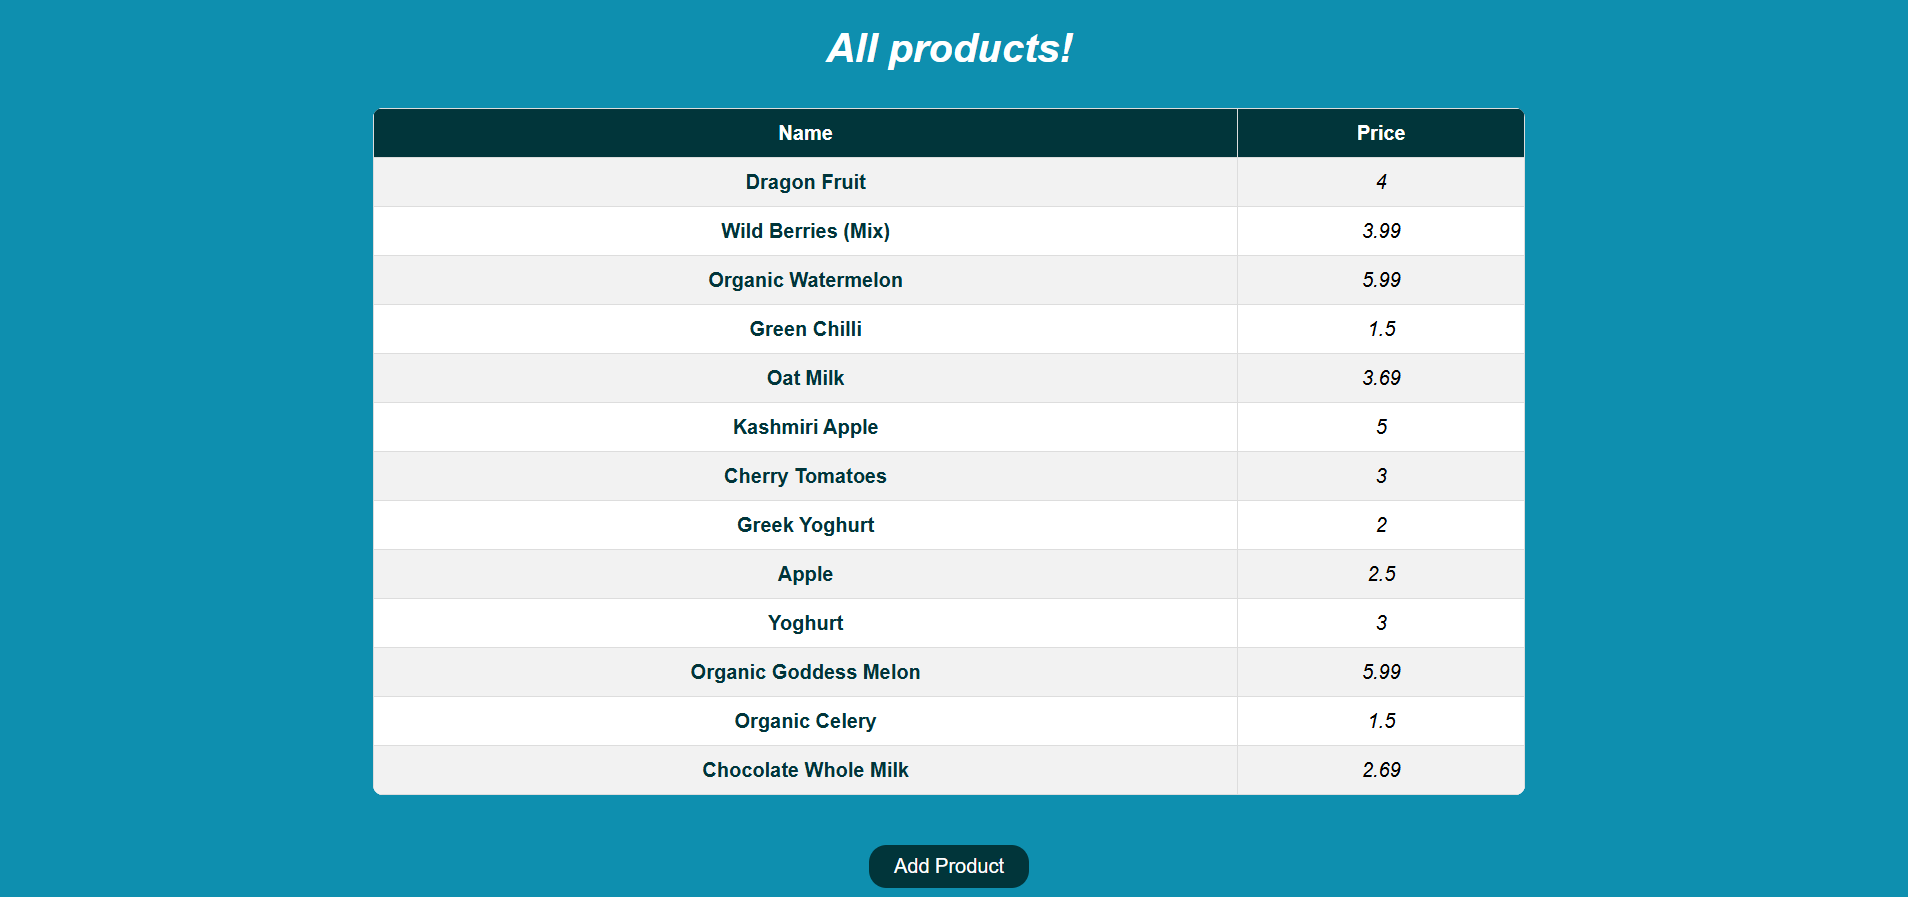
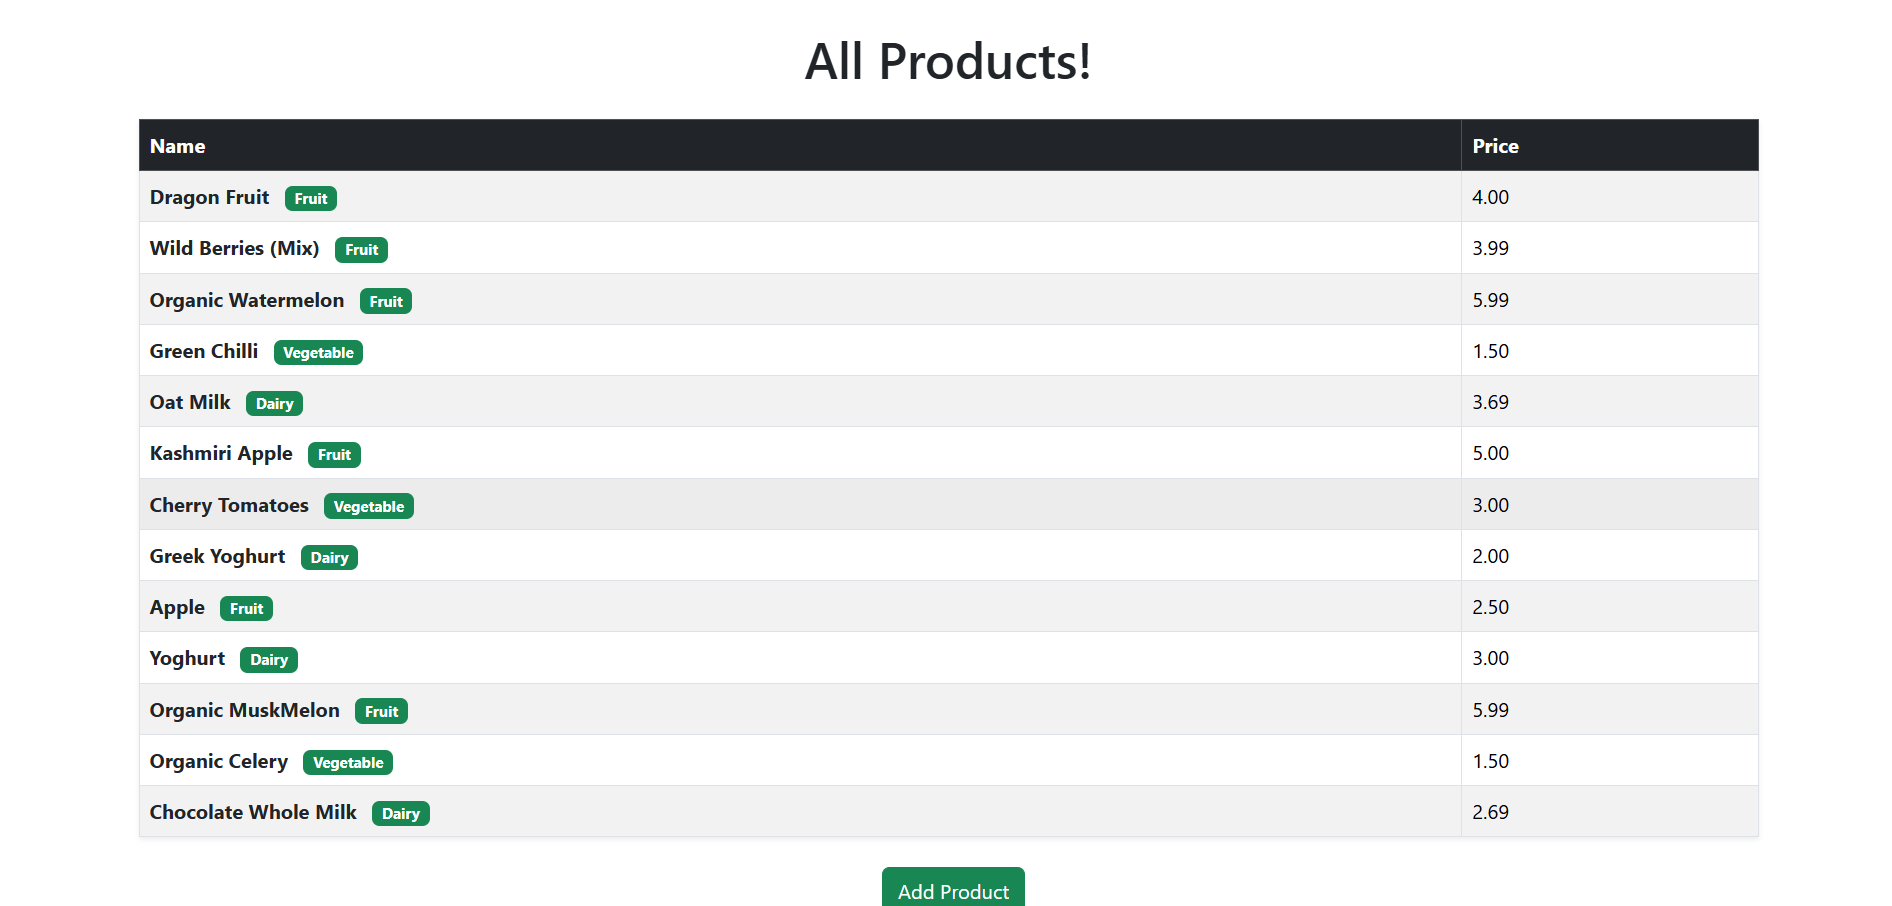
minor fix

diff --git a/README.md b/README.md
@@ -12,7 +12,7 @@ This project allows you to create, read, update, and delete products, and filter
 - Add new products
 - Edit existing products
 - Delete products
-- Clean, responsive UI with EJS and custom CSS
+- Clean, responsive UI with EJS and Bootstrap 5
 - Robust error handling for validation errors, invalid ObjectIds, and missing resources  
 
 ---
